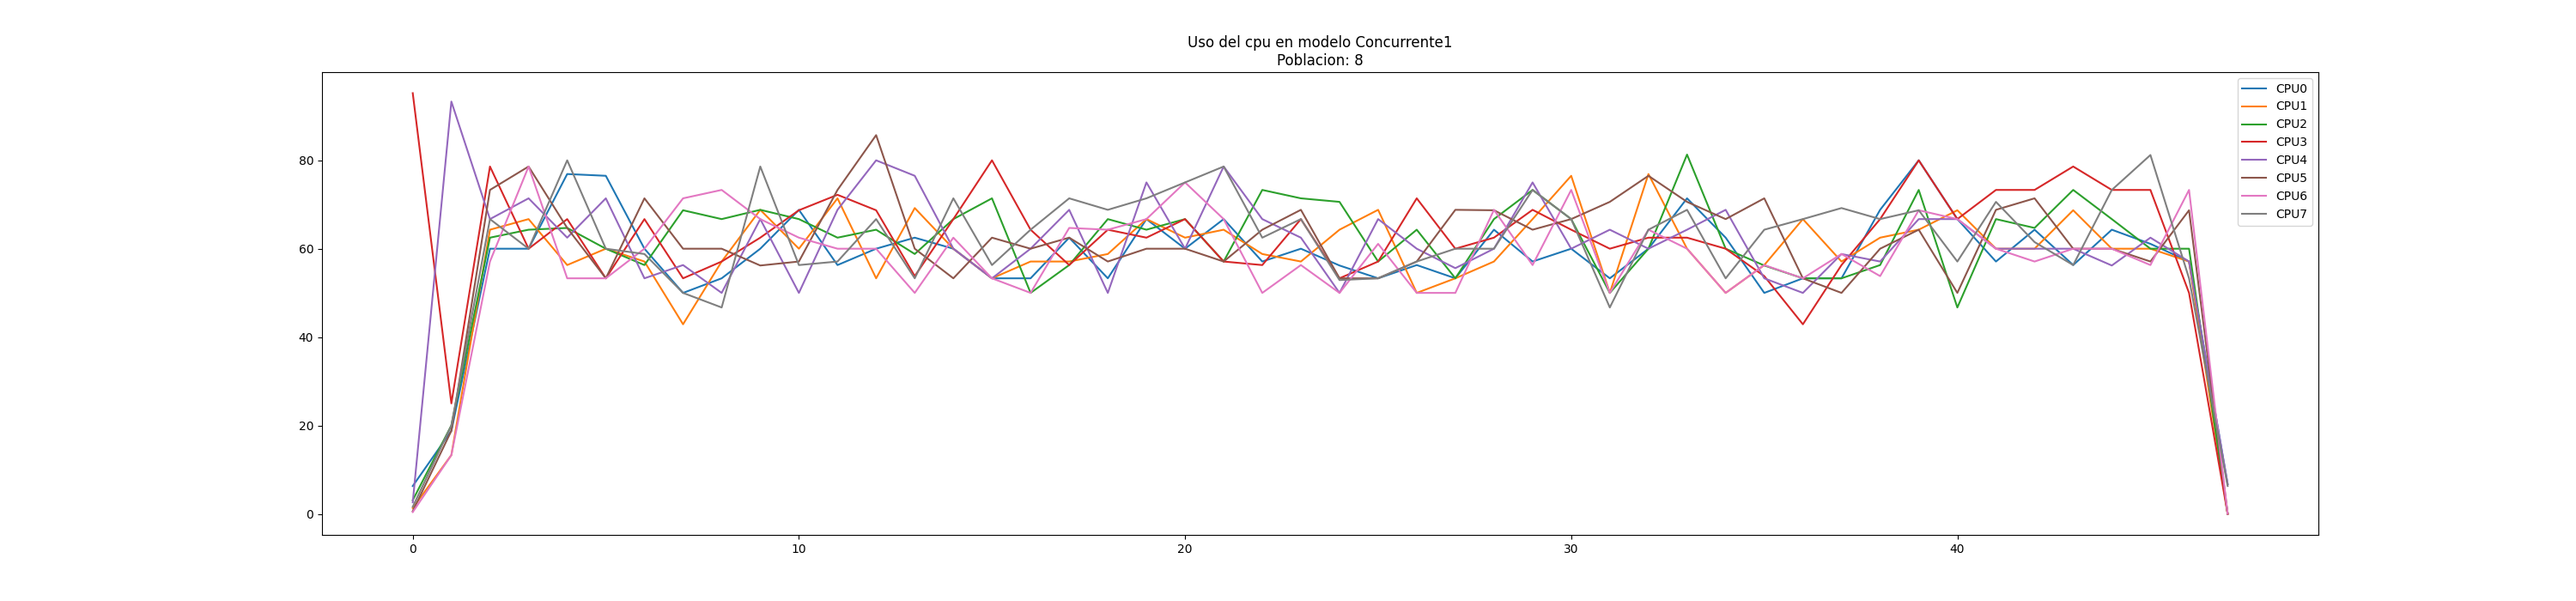
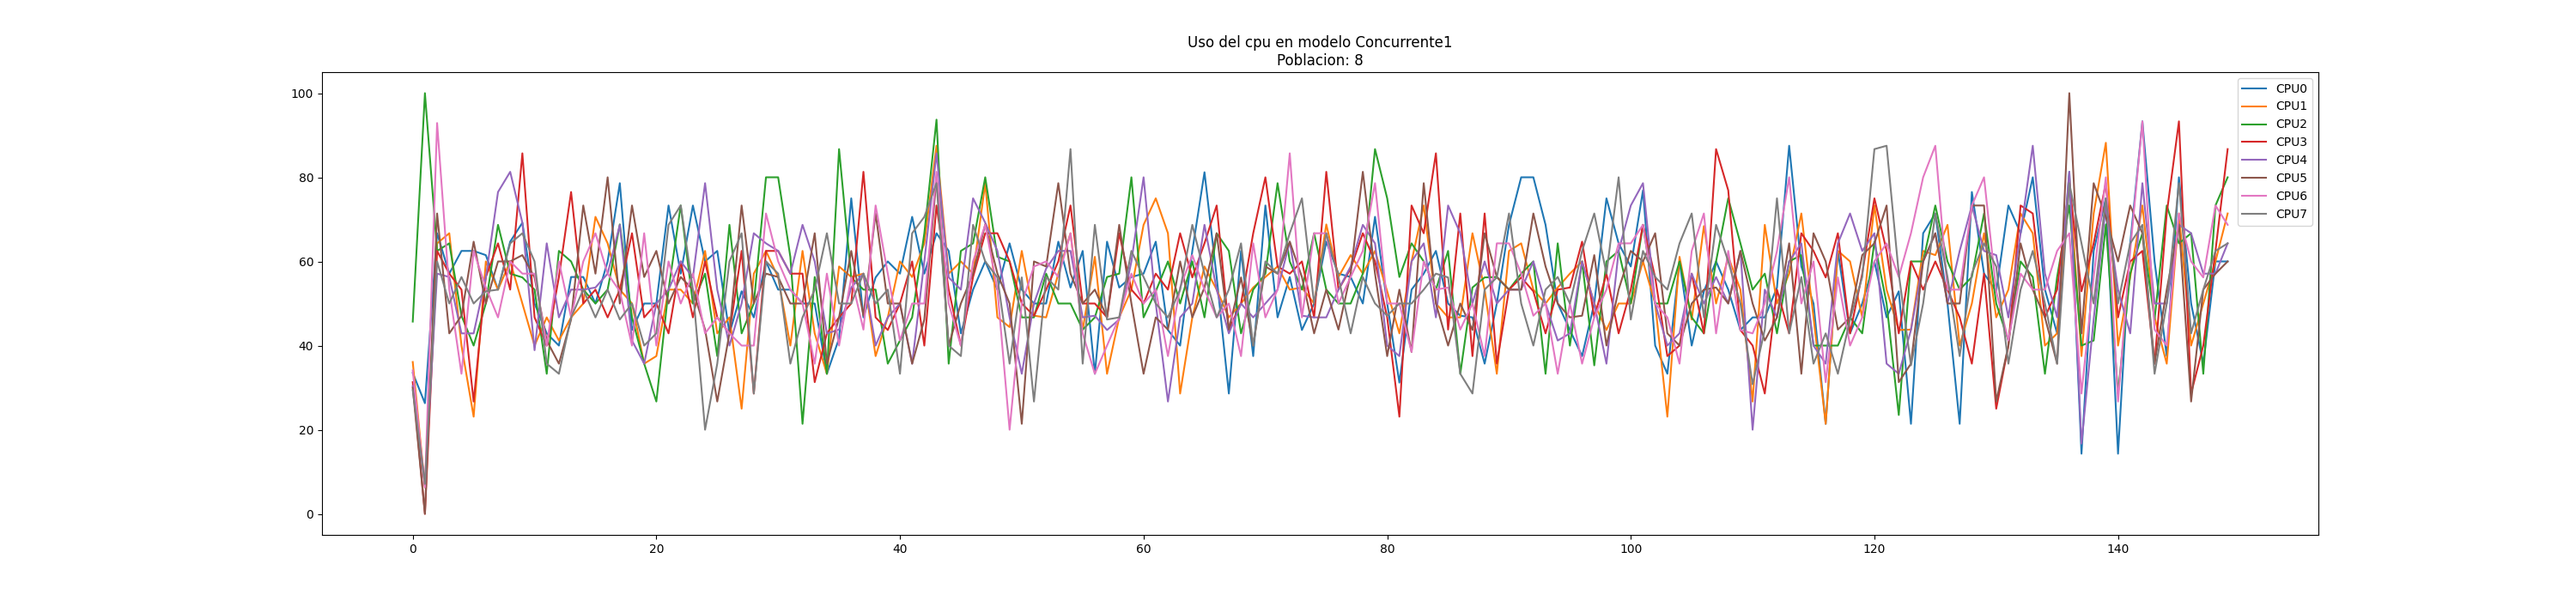
Veersión final del código

Changed region(s): [[0.155, 0.18, 0.868, 0.84]]

diff --git a/Proyecto/Genético.py b/Proyecto/Genético.py
@@ -1,6 +1,6 @@
 #!/usr/bin/env python
 # coding: utf-8
-
+from math import inf
 import psutil
 import os
 import matplotlib.pyplot as plt
@@ -828,7 +828,7 @@ def comparacion(objetivo,poblacion=mp.cpu_count(), iteraciones=500,
     cpu_process_secuencial.join()
     usages.append((usage_secuencial,'Secuencial'))
 
-    end_concurrente1 = 'No aplica'
+    end_concurrente1 = inf
 
     if concurrente1:
         print('Concurrente1:')
@@ -844,7 +844,7 @@ def comparacion(objetivo,poblacion=mp.cpu_count(), iteraciones=500,
         usage_concurrente= q.get()
         usages.append((usage_concurrente,'Concurrente1'))
 
-    end_concurrente2 = 'No aplica'
+    end_concurrente2 = inf
     if concurrente2:
         print('Concurrente2:')
         finish.value = False
@@ -915,9 +915,31 @@ def plot_cpu(objetivo,poblacion,iteraciones,concurrente1=True,concurrente2=True)
 
 
 if __name__ == '__main__':
-    objetivo = open('Lorem ipsum')
-    objetivo = objetivo.read()
+    '''
+    archivo = open('Lorem ipsum')
+    objetivo = archivo.read()[:1000]
+    archivo.close()
+    print('#'*50)
+    print('Comparación con el texto parcial de longitud {}'.format(len(objetivo)))
+    print('#'*50)
     #usage = comparacion(objetivo,iteraciones=200)
-    plot_cpu(objetivo,8,50,concurrente1=True)
-    plot_cpu(objetivo,50,50,concurrente1=True)
-    plot_cpu(objetivo,500,50,concurrente1=False)
+    plot_cpu(objetivo,8,500,concurrente1=True)
+    plot_cpu(objetivo,20,500,concurrente1=True)
+    plot_cpu(objetivo,200,500,concurrente1=False)
+    plot_cpu(objetivo,500,500,concurrente1=False)
+    plot_cpu(objetivo,1000,500,concurrente1=False)
+    '''
+    archivo = open('Lorem ipsum')
+    objetivo = archivo.read()
+    archivo.close()
+    '''
+    print('#'*50)
+    print('Comparación con el texto completo de longitud {}'.format(len(objetivo)))
+    print('#'*50)
+
+    plot_cpu(objetivo,8,500,concurrente1=True)
+    plot_cpu(objetivo,20,500,concurrente1=True)
+    '''
+    plot_cpu(objetivo,200,500,concurrente1=False)
+    plot_cpu(objetivo,500,500,concurrente1=False)
+    plot_cpu(objetivo,1000,500,concurrente1=False)
